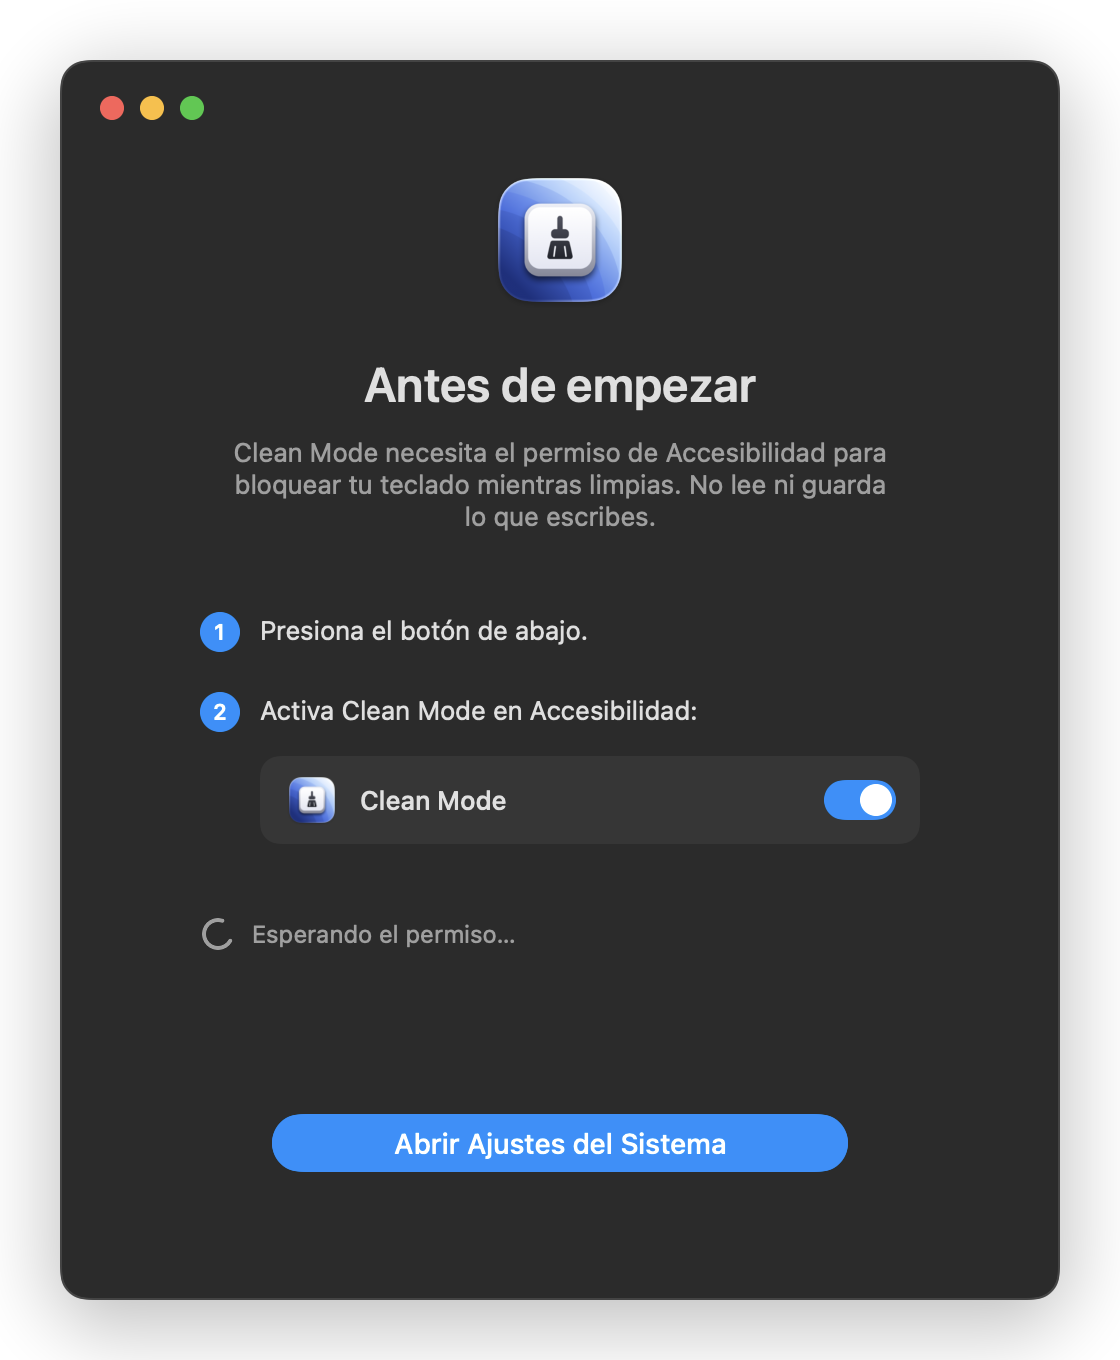
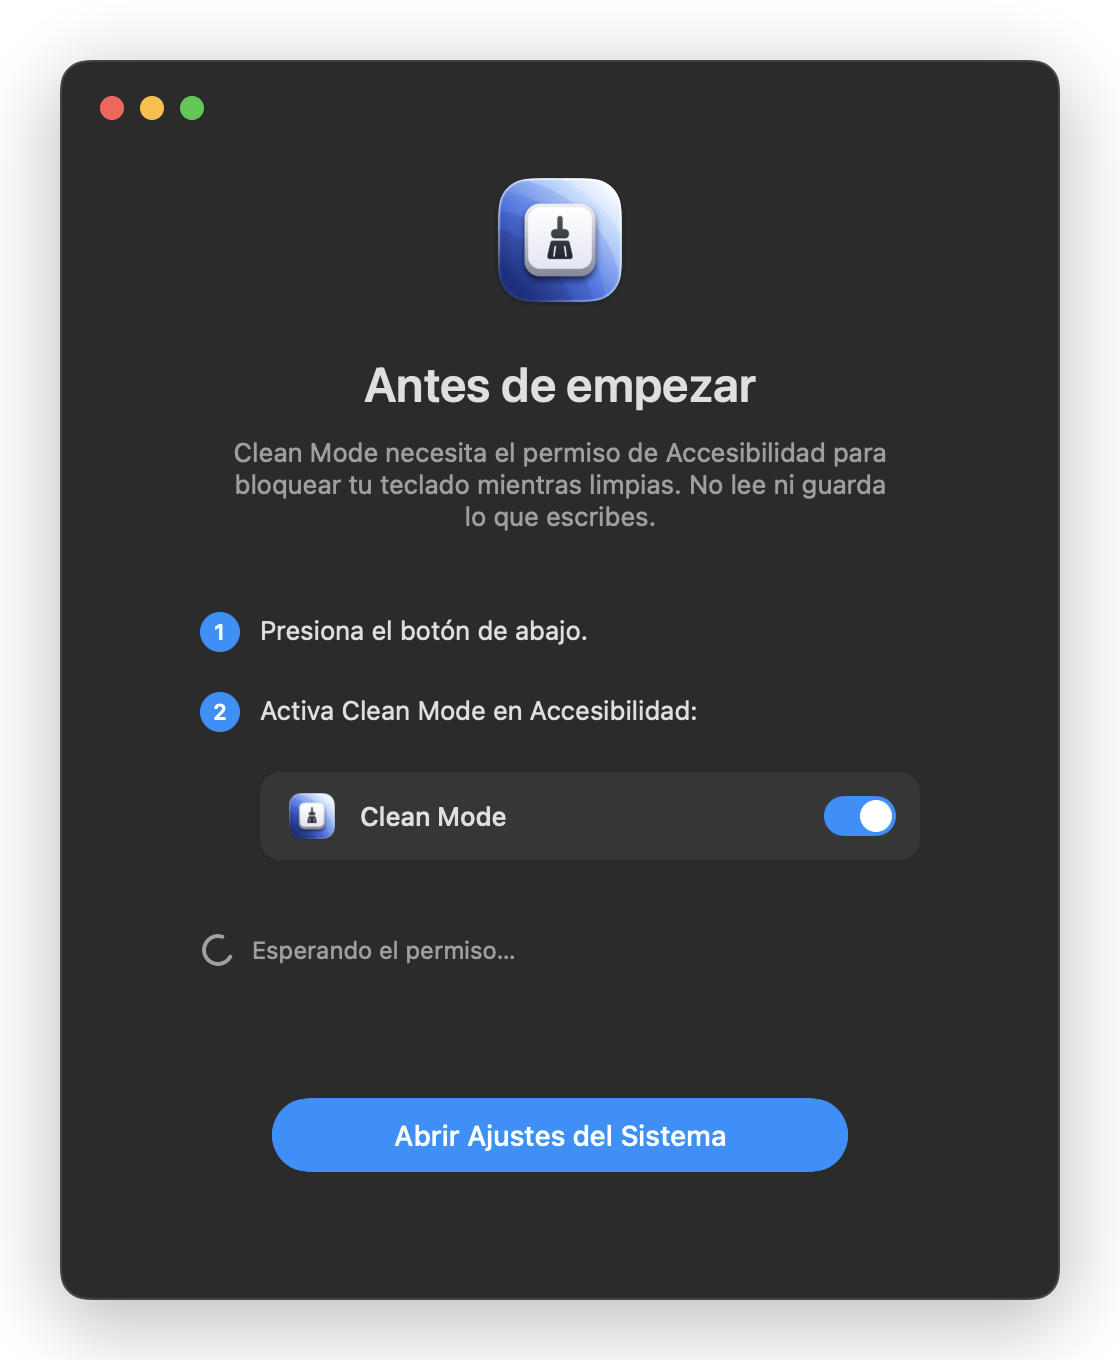
feat: update UI scaling and alignment for improved consistency and readability

diff --git a/Sources/CleanMode/OverlayView.swift b/Sources/CleanMode/OverlayView.swift
@@ -54,6 +54,11 @@ struct OverlayView: View {
                 .frame(width: 96 * s, height: 96 * s)
                 .rotationEffect(.degrees(-45))
                 .frame(width: 106 * s, height: 106 * s)
+                // Alineación vertical: inclinada, la escoba deja ~20.4·s de aire arriba dentro de su contenedor,
+                // y las letras del título (altura de mayúscula) empiezan a ~5.2·s del borde del texto.
+                // Se sube la diferencia para que el borde superior de la escoba quede a la altura del título,
+                // y luego se baja 4 pt (ajuste fino pedido a ojo).
+                .offset(y: -15.2 * s + 4)
 
             VStack(alignment: .leading, spacing: 12 * s) {
                 Text(L10n.t("lock.title"))
@@ -63,7 +68,7 @@ struct OverlayView: View {
                     Text(L10n.t("lock.blocked"))
                     Text(L10n.t("lock.tips"))
                 }
-                .font(.system(size: 14 * s))
+                .font(.system(size: 18))   // descripción: 18 pt fijos
                 .fixedSize(horizontal: false, vertical: true)
 
                 HoldButton(
@@ -75,7 +80,8 @@ struct OverlayView: View {
 
                 if let remaining = model.remainingSeconds {
                     Text(L10n.t("lock.autoClose", Self.format(remaining)))
-                        .font(.system(size: 12 * s))
+                        .font(.system(size: 16))   // contador: 16 pt fijos
+                        .opacity(0.7)
                         .monospacedDigit()
                 }
             }
@@ -162,7 +168,7 @@ struct HoldButton: View {
     @State private var holding = false
     @State private var pending: DispatchWorkItem?
 
-    private let s = Config.uiScale
+    private let s = Config.holdButtonScale
     private var width: CGFloat { 280 * s }
     private var height: CGFloat { 48 * s }
     private var shape: RoundedRectangle { RoundedRectangle(cornerRadius: 10 * s, style: .continuous) }

diff --git a/Sources/CleanMode/Config.swift b/Sources/CleanMode/Config.swift
@@ -1,4 +1,3 @@
-import AppKit
 import Foundation
 
 enum Config {
@@ -24,17 +23,14 @@ enum Config {
         return n
     }
 
-    /// Factor de escala de la UI del overlay: 1.5 por defecto. En pantallas bajas se reduce solo para que
-    /// el contenido, el subtítulo de ⌘Q y el pie quepan sin encimarse (en 1280×720 queda en 1.44).
-    /// Usa la pantalla más baja conectada, porque el contenido puede aparecer en cualquiera.
-    static var uiScale: CGFloat {
-        if let uiScaleOverride { return uiScaleOverride }
-        let lowest = NSScreen.screens.map { $0.frame.height }.min() ?? 900
-        return min(1.5, lowest / 500)
-    }
+    /// Factor de las medidas de la UI del overlay. Es **fijo** y igual en todas las pantallas: son las medidas
+    /// calibradas para 1280×720 (título 30.2 pt, pie 15.8 pt, subtítulo 28.8 pt). La descripción (18 pt) y el contador (16 pt)
+    /// tienen tamaño fijo propio, sin multiplicar por este factor.
+    static let uiScale: CGFloat = 1.44
 
-    /// Solo para generar capturas de la documentación (`--render-docs`).
-    static var uiScaleOverride: CGFloat?
+    /// Escala del botón de mantener presionado. Se quedó en el tamaño que tenía antes de subir el resto de la UI a 1.5
+    /// (280×48 pt a escala 1.15 = unos 322×55 pt).
+    static let holdButtonScale: CGFloat = 1.15
 
     /// Tiempo máximo de bloqueo en segundos; nil = sin límite (minutos <= 0).
     /// Prioridad (de menor a mayor):

diff --git a/Sources/CleanMode/OnboardingView.swift b/Sources/CleanMode/OnboardingView.swift
@@ -43,7 +43,7 @@ struct OnboardingView: View {
 
             VStack(alignment: .leading, spacing: 20) {
                 step(1, L10n.t("onb.step1"))
-                VStack(alignment: .leading, spacing: 12) {
+                VStack(alignment: .leading, spacing: 20) {
                     step(2, L10n.t("onb.step2"))
                     appRowPreview
                         .padding(.leading, 30)
@@ -64,6 +64,7 @@ struct OnboardingView: View {
                     .lineLimit(1)
                     .minimumScaleFactor(0.7)
                     .frame(width: 260)
+                    .padding(.vertical, 4)   // un poco más alto
             }
             .buttonStyle(.borderedProminent)
             .controlSize(.large)

diff --git a/Sources/CleanMode/DocsRenderer.swift b/Sources/CleanMode/DocsRenderer.swift
@@ -17,7 +17,6 @@ enum DocsRenderer {
                 let parts = arg.dropFirst("--render-size=".count).split(separator: "x").compactMap { Double($0) }
                 if parts.count == 2 { lockSize = CGSize(width: parts[0], height: parts[1]) }
             }
-            Config.uiScaleOverride = min(1.5, lockSize.height / 500)
 
             render(lockScreen, size: lockSize, to: dir.appendingPathComponent("lock.png"))
             render(onboarding(dark: false), size: CGSize(width: 560, height: 680), to: dir.appendingPathComponent("onboarding-light.png"))

diff --git a/CLAUDE.md b/CLAUDE.md
@@ -29,7 +29,7 @@ swift scripts/make-icon.swift Resources/AppIcon-1024.png
 
 # Regenerate README screenshots (renders SwiftUI views to PNG and exits; locks nothing)
 build/CleanMode.app/Contents/MacOS/CleanMode --render-docs=docs/screenshots --lang=en
-# Same, simulating a smaller screen (e.g. to check the layout fits)
+# Same, simulating a different screen size (e.g. to check the layout fits)
 build/CleanMode.app/Contents/MacOS/CleanMode --render-docs=/tmp/shots --lang=de --render-size=1280x720
 
 # Run (it takes over keyboard and screen — always pass a short timeout when testing)
@@ -45,7 +45,7 @@ Flow: `main.swift` → `AppDelegate`. If `Permissions.isReady` it calls `LockCon
 - **`LockController`** orchestrates everything and is the only place that sets/undoes global state: `KeyboardBlocker`, one `OverlayWindow` per `NSScreen` (level `CGShieldingWindowLevel`, rebuilt on screen-parameter changes), `NSApp.presentationOptions` (hides Dock/menu bar, disables Cmd+Tab, force quit, session termination), real-cursor hide (`CGDisplayHideCursor` + `NSCursor.hide`), an `IOPMAssertion` (no display sleep) and the auto-close countdown. `start()` creates the keyboard tap *first* and returns false before touching anything else if that fails.
 - **`KeyboardBlocker`**: an active `CGEventTap` (session tap, head insert) that swallows keyDown/keyUp/flagsChanged, `NX_SYSDEFINED` (media keys) and gesture events. It counts Cmd+Q presses (ignoring autorepeat) with a debounce reset; the tap callback runs on the main run loop so it can call UI directly. It re-enables itself on `tapDisabledByTimeout`.
 - **Three exits**, all funnel into `LockController.unlock()` → `onFinish` → terminate: hold the button (`Config.holdDuration`, 3 s), Cmd+Q ×3 (`quitPressesRequired`, `quitDebounce`), or the timeout. `AppDelegate.applicationShouldTerminate` cancels termination unless `allowTerminate` is set, so only `unlock()` can quit the app.
-- **UI**: `OverlayView` (SwiftUI, hosted in `NSHostingView`) shows content only on the screen under the mouse at launch; other screens are plain black. `CursorTrailView` (AppKit, `CALayer` dots, a 60 Hz timer) sits above it and returns nil from `hitTest` so clicks reach the button. The trail records the pointer path and places each dot where the pointer was N ms ago (not a lerp chain — that read as a whip). `HoldButton` fills white and flips the label to black via a masked second label. `BrushCleaningShape` draws aura's lucide icon from SVG path data through the small parser in `SVGPath.swift`. `Config.uiScale` scales the whole overlay: 1.5, reduced automatically on short screens to `min(1.5, lowestScreenHeight / 500)` so the content, the ⌘Q subtitle and the footer never overlap (1280×720 → 1.44).
+- **UI**: `OverlayView` (SwiftUI, hosted in `NSHostingView`) shows content only on the screen under the mouse at launch; other screens are plain black. `CursorTrailView` (AppKit, `CALayer` dots, a 60 Hz timer) sits above it and returns nil from `hitTest` so clicks reach the button. The trail records the pointer path and places each dot where the pointer was N ms ago (not a lerp chain — that read as a whip). `HoldButton` fills white and flips the label to black via a masked second label; it keeps its own, smaller scale (`Config.holdButtonScale`, 1.15 — the size it had before the rest of the overlay went to 1.5). `BrushCleaningShape` draws aura's lucide icon from SVG path data through the small parser in `SVGPath.swift`. `Config.uiScale` (fixed at 1.44, the measurements calibrated for 1280×720, identical on every screen) multiplies every size in the overlay.
 - **`DocsRenderer`** (hidden `--render-docs=<dir>` flag, handled first thing in `AppDelegate`): draws `OverlayView` and `OnboardingView` with `ImageRenderer` into PNGs and exits without locking or asking permissions. `OverlayView(preview: true)` skips the fade-in. `ImageRenderer` can't draw AppKit-backed controls (e.g. `ProgressView` renders as a "prohibited" sign), which is why onboarding uses the pure-SwiftUI `Spinner`; the cursor trail (AppKit) doesn't appear in the screenshots.
 - **Donation reminder** (`DonationReminder`, `DonationView`/`DonationController`): `AppDelegate.sessionFinished` counts each finished session (3 exit reasons via `LockController.ExitReason`) and, every `Config.donationReminderEvery` (10) sessions ended by the user (not by timeout), shows a small dismissible window before quitting. State is three local `UserDefaults` keys (`donationSessions`, `donationNextAt`, `donationOptOut`); no network. The link is `Config.donationURL`. To test: `--donation-every=1`; reset with `defaults delete im.dnn.cleanmode donationSessions donationNextAt donationOptOut`.
 - **`Permissions`**: `accessibilityGranted` is the silent `AXIsProcessTrusted()`; `eventTapReady` actually tries to create a tap (only when granted, to avoid triggering system prompts). The system permission dialog is triggered *only* by the onboarding button (`requestAndOpenSettings`), never at launch.

diff --git a/CHANGELOG.md b/CHANGELOG.md
@@ -4,6 +4,11 @@ All notable changes to this project are documented here. The format follows [Kee
 
 ## [Unreleased]
 
+### Changed
+- Lock screen measurements are now fixed and identical on every screen (the ones calibrated for 1280×720: UI scale 1.44) instead of scaling with the screen height. The hold-to-exit button keeps its own size.
+- The broom icon is vertically aligned with the title text.
+- The description is now 18 pt and the auto-close countdown 16 pt (slightly transparent).
+
 ## [1.1.1]
 
 ### Fixed
